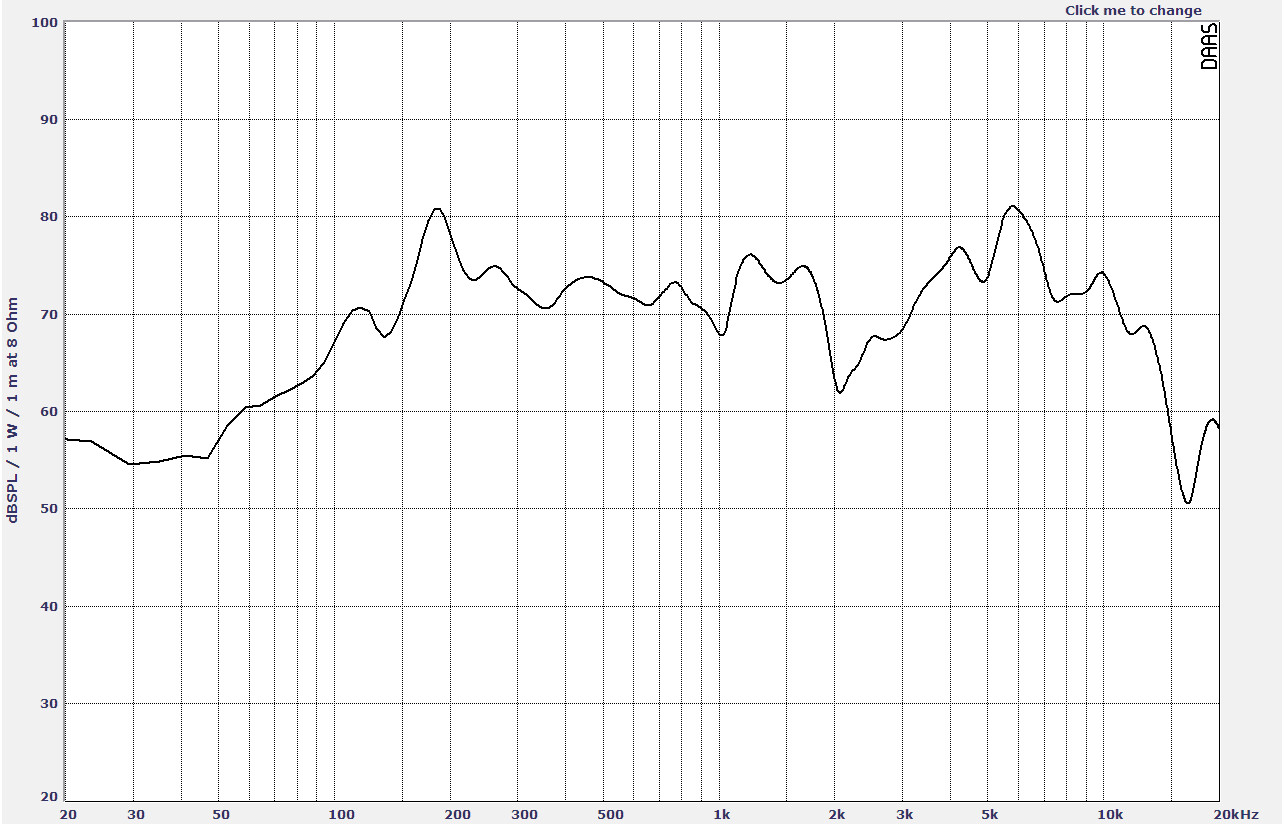
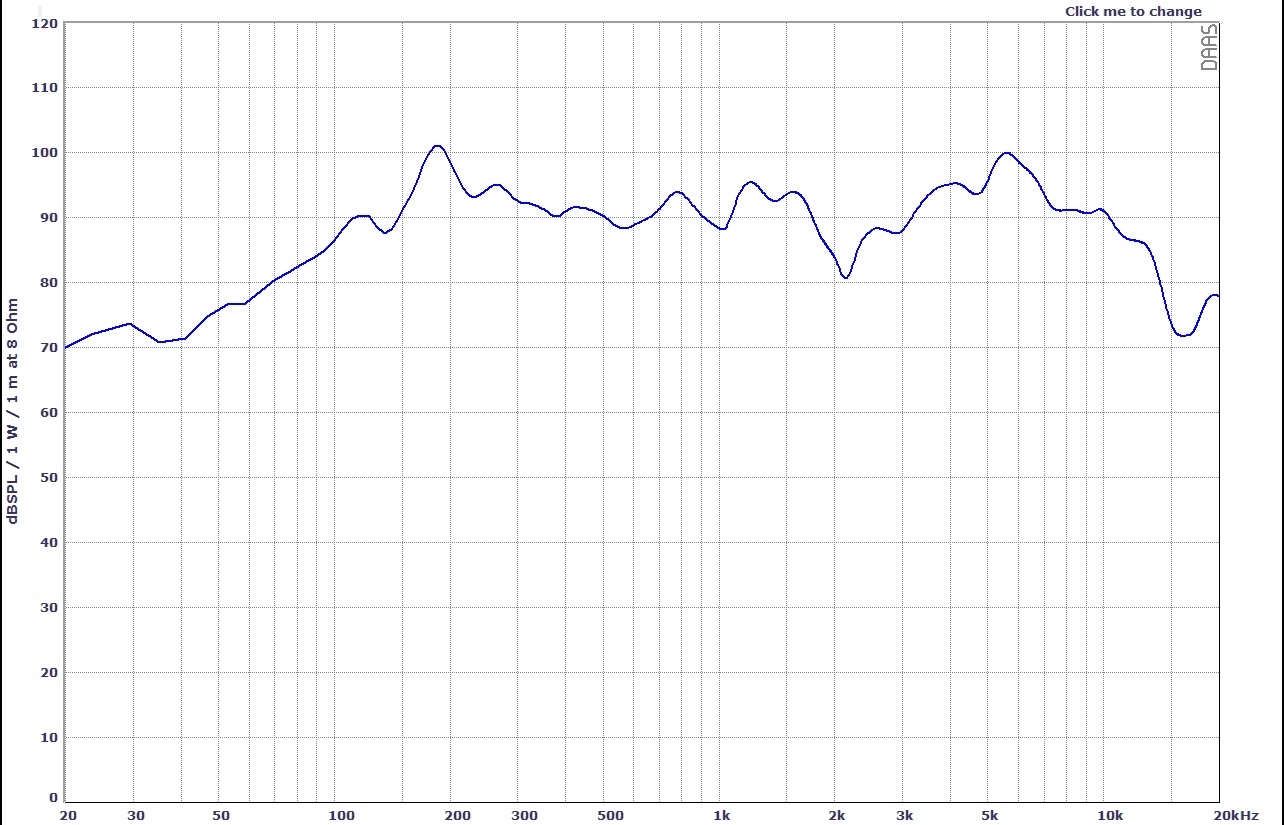
fix notes and power

diff --git a/_products/SPT-33SP.md b/_products/SPT-33SP.md
@@ -2,7 +2,7 @@
 layout: product
 breadcrumb: true
 header: no
-title: "SPT-33SP 4 Inch Tweeter"
+title: "SPT-33SP 3 Inch Tweeter"
 model: "SPT-33SP"
 sequence: 1
 type: "Tweeter"
@@ -11,20 +11,18 @@ images:
   - p2.png
   - p3.png
 notes:
-  - 2 INCH COPPER VOICE COIL
-  - 93.8 dB/SPL SENSITIVITY
-  - 400 WATT PROGRAM POWER HANDING
-  - FEM OPTIMIZED MOTOR AND SUSPENSIONS
-  - OPTIMIZED COOLING SYSTEM
-  - RESONANCE FREE AND HEAVY DUTY BASKET DESIGN
+  - 0.5 INCH ROUND COPPER VOICE COIL
+  - 93 dB/SPL SENSITIVITY
+  - 20 WATT RMS
+  - 2000 - 15000 Hz FREQUENCY RESPONSE
 # General specifications
 nominal_diameter: "3 inch"
 nominal_impedance: "8 Ω"
 magnet_weight: "3 oz"
 voice_coil_diameter: "0.5 inch"
 power_rating: "20W RMS"
-peak_power: "30W"
-sensitivity: "93 dB"
+peak_power: "40W"
+sensitivity: "93.0 dB"
 frequency_range: "2000~15000 Hz"
 
 coil_material: "Round Copper"

diff --git a/_products/SPC-235.md b/_products/SPC-235.md
@@ -11,20 +11,19 @@ images:
   - p2.png
   - p3.png
 notes:
-  - 2 INCH COPPER VOICE COIL
-  - 93.8 dB/SPL SENSITIVITY
-  - 400 WATT PROGRAM POWER HANDING
-  - FEM OPTIMIZED MOTOR AND SUSPENSIONS
-  - OPTIMIZED COOLING SYSTEM
+  - 1 INCH ROUND COPPER VOICE COIL
+  - 88 dB/SPL SENSITIVITY
+  - 40 WATT RMS
+  - 110 ~ 11000 Hz FREQUENCY RESPONSE
 # General specifications
 nominal_diameter: "5.25 inch"
 nominal_impedance: "8 Ω"
-magnet_weight: "? oz"
+magnet_weight: "10 oz"
 voice_coil_diameter: "1 inch"
-power_rating: "30W RMS"
-peak_power: "50W"
-sensitivity: "73 dB"
-frequency_range: "170~10000 Hz"
+power_rating: "40W RMS"
+peak_power: "60W"
+sensitivity: "88 dB"
+frequency_range: "110~11000 Hz"
 
 coil_material: "Round Copper"
 former_material: "Aluminum"

diff --git a/_products/SPW-1080AF.md b/_products/SPW-1080AF.md
@@ -12,20 +12,18 @@ images:
   - p3.png
   - p4.png
 notes:
-  - 2 INCH COPPER VOICE COIL
-  - 93.8 dB/SPL SENSITIVITY
-  - 400 WATT PROGRAM POWER HANDING
-  - FEM OPTIMIZED MOTOR AND SUSPENSIONS
-  - OPTIMIZED COOLING SYSTEM
-  - RESONANCE FREE AND HEAVY DUTY BASKET DESIGN
+  - 2 INCH ROUND COPPER VOICE COIL
+  - 87 dB/SPL SENSITIVITY
+  - 450 WATT RMS
+  - 30 - 1700 Hz FREQUENCY RESPONSE
   - 铝散热器
 # General specifications
 nominal_diameter: "10 inch"
 nominal_impedance: "8 Ω"
 magnet_weight: "2 x 40 oz"
 voice_coil_diameter: "2 inch"
-power_rating: "500W RMS"
-peak_power: "800W"
+power_rating: "450W RMS"
+peak_power: "900W"
 sensitivity: "87.0 dB"
 frequency_range: "30~1700 Hz"
 

diff --git a/_products/SPW-1250SC1.md b/_products/SPW-1250SC1.md
@@ -11,19 +11,17 @@ images:
   - p2.png
   - p3.png
 notes:
-  - 2 INCH COPPER VOICE COIL
-  - 93.8 dB/SPL SENSITIVITY
-  - 400 WATT PROGRAM POWER HANDING
-  - FEM OPTIMIZED MOTOR AND SUSPENSIONS
-  - OPTIMIZED COOLING SYSTEM
-  - RESONANCE FREE AND HEAVY DUTY BASKET DESIGN
+  - 2.58 INCH ROUND COPPER VOICE COIL
+  - 94.6 dB/SPL SENSITIVITY
+  - 350 WATT RMS
+  - 50 - 3300 Hz FREQUENCY RESPONSE
 # General specifications
 nominal_diameter: "12 inch"
 nominal_impedance: "8 Ω"
 magnet_weight: "50 oz"
 voice_coil_diameter: "2.58 inch"
-power_rating: "250W RMS"
-peak_power: "400W"
+power_rating: "350W RMS"
+peak_power: "700W"
 sensitivity: "94.6 dB"
 frequency_range: "50~3300 Hz"
 

diff --git a/_products/SPM-630SC.md b/_products/SPM-630SC.md
@@ -11,19 +11,17 @@ images:
   - p2.png
   - p3.png
 notes:
-  - 2 INCH COPPER VOICE COIL
-  - 93.8 dB/SPL SENSITIVITY
-  - 400 WATT PROGRAM POWER HANDING
-  - FEM OPTIMIZED MOTOR AND SUSPENSIONS
-  - OPTIMIZED COOLING SYSTEM
-  - RESONANCE FREE AND HEAVY DUTY BASKET DESIGN
+  - 1.5 INCH ROUND COPPER VOICE COIL
+  - 94 dB/SPL SENSITIVITY
+  - 120 WATT RMS
+  - 360 - 5000 Hz FREQUENCY RESPONSE
 # General specifications
 nominal_diameter: "6.5 inch"
 nominal_impedance: "8 Ω"
 magnet_weight: "30 oz"
 voice_coil_diameter: "1.5 inch"
-power_rating: "100W RMS"
-peak_power: "150W"
+power_rating: "120W RMS"
+peak_power: "200W"
 sensitivity: "94.0 dB"
 frequency_range: "360~5000 Hz"
 

diff --git a/_products/SPW-12100AF.md b/_products/SPW-12100AF.md
@@ -12,18 +12,17 @@ images:
   - p3.png
   - p4.png
 notes:
-  - 2 INCH COPPER VOICE COIL
-  - 93.8 dB/SPL SENSITIVITY
-  - 400 WATT PROGRAM POWER HANDING
-  - FEM OPTIMIZED MOTOR AND SUSPENSIONS
-  - OPTIMIZED COOLING SYSTEM
-  - RESONANCE FREE AND HEAVY DUTY BASKET DESIGN
+  - 2.5 INCH ROUND COPPER VOICE COIL
+  - 83.0 dB/SPL SENSITIVITY
+  - 600 WATT RMS
+  - 30 - 1200 Hz FREQUENCY RESPONSE
+  - 铝散热器
 # General specifications
 nominal_diameter: "12 inch"
 nominal_impedance: "8 Ω"
 magnet_weight: "2 x 50 oz"
 voice_coil_diameter: "2.5 inch"
-power_rating: "800W RMS"
+power_rating: "600W RMS"
 peak_power: "1200W"
 sensitivity: "83.0 dB"
 frequency_range: "30~1200 Hz"

diff --git a/_products/SPW-1623PC.md b/_products/SPW-1623PC.md
@@ -11,19 +11,17 @@ images:
   - p2.png
   - p3.png
 notes:
-  - 2 INCH COPPER VOICE COIL
-  - 93.8 dB/SPL SENSITIVITY
-  - 400 WATT PROGRAM POWER HANDING
-  - FEM OPTIMIZED MOTOR AND SUSPENSIONS
-  - OPTIMIZED COOLING SYSTEM
-  - RESONANCE FREE AND HEAVY DUTY BASKET DESIGN
+  - 1 INCH ROUND COPPER VOICE COIL
+  - 94.7 dB/SPL SENSITIVITY
+  - 100 WATT RMS
+  - 100 - 11000 Hz FREQUENCY RESPONSE
 # General specifications
 nominal_diameter: "6x9 inch"
 nominal_impedance: "4 Ω"
 magnet_weight: "6.5 oz"
 voice_coil_diameter: "1 inch"
-power_rating: "80W RMS"
-peak_power: "100W"
+power_rating: "100W RMS"
+peak_power: "150W"
 sensitivity: "94.7 dB"
 frequency_range: "100~11000 Hz"
 

diff --git a/_products/SPW-1050SC.md b/_products/SPW-1050SC.md
@@ -11,19 +11,17 @@ images:
   - p2.png
   - p3.png
 notes:
-  - 2 INCH COPPER VOICE COIL
-  - 93.8 dB/SPL SENSITIVITY
-  - 400 WATT PROGRAM POWER HANDING
-  - FEM OPTIMIZED MOTOR AND SUSPENSIONS
-  - OPTIMIZED COOLING SYSTEM
-  - RESONANCE FREE AND HEAVY DUTY BASKET DESIGN
+  - 1.5 INCH ROUND COPPER VOICE COIL
+  - 90.8 dB/SPL SENSITIVITY
+  - 250 WATT RMS
+  - 55 - 3200 Hz FREQUENCY RESPONSE
 # General specifications
 nominal_diameter: "10 inch"
 nominal_impedance: "8 Ω"
 magnet_weight: "50 oz"
 voice_coil_diameter: "1.5 inch"
-power_rating: "200W RMS"
-peak_power: "250W"
+power_rating: "250W RMS"
+peak_power: "400W"
 sensitivity: "90.8 dB"
 frequency_range: "55~3200 Hz"
 

diff --git a/_products/SPW-1230SC.md b/_products/SPW-1230SC.md
@@ -11,19 +11,17 @@ images:
   - p2.png
   - p3.png
 notes:
-  - 2 INCH COPPER VOICE COIL
-  - 93.8 dB/SPL SENSITIVITY
-  - 400 WATT PROGRAM POWER HANDING
-  - FEM OPTIMIZED MOTOR AND SUSPENSIONS
-  - OPTIMIZED COOLING SYSTEM
-  - RESONANCE FREE AND HEAVY DUTY BASKET DESIGN
+  - 1.5 INCH ROUND COPPER VOICE COIL
+  - 90.4 dB/SPL SENSITIVITY
+  - 250 WATT RMS
+  - 35 - 6800 Hz FREQUENCY RESPONSE
 # General specifications
 nominal_diameter: "12 inch"
 nominal_impedance: "8 Ω"
 magnet_weight: "30 oz"
 voice_coil_diameter: "1.5 inch"
-power_rating: "150W RMS"
-peak_power: "180W"
+power_rating: "250W RMS"
+peak_power: "500W"
 sensitivity: "90.4 dB"
 frequency_range: "35~6800 Hz"
 

diff --git a/_products/SPW-18125AC.md b/_products/SPW-18125AC.md
@@ -11,19 +11,17 @@ images:
   - p2.png
   - p3.png
 notes:
-  - 2 INCH COPPER VOICE COIL
-  - 93.8 dB/SPL SENSITIVITY
-  - 400 WATT PROGRAM POWER HANDING
-  - FEM OPTIMIZED MOTOR AND SUSPENSIONS
-  - OPTIMIZED COOLING SYSTEM
-  - RESONANCE FREE AND HEAVY DUTY BASKET DESIGN
+  - 4 INCH ROUND COPPER VOICE COIL
+  - 93.5 dB/SPL SENSITIVITY
+  - 700 WATT RMS
+  - 46 ~ 2000 Hz FREQUENCY RESPONSE
 # General specifications
 nominal_diameter: "18 inch"
 nominal_impedance: "8 Ω"
 magnet_weight: "125 oz"
 voice_coil_diameter: "4 inch"
-power_rating: "800W RMS"
-peak_power: "1200W"
+power_rating: "700W RMS"
+peak_power: "1300W"
 sensitivity: "93.5 dB"
 frequency_range: "46~2000 Hz"
 

diff --git a/_products/SPM-830SC.md b/_products/SPM-830SC.md
@@ -11,19 +11,17 @@ images:
   - p2.png
   - p3.png
 notes:
-  - 2 INCH COPPER VOICE COIL
-  - 93.8 dB/SPL SENSITIVITY
-  - 400 WATT PROGRAM POWER HANDING
-  - FEM OPTIMIZED MOTOR AND SUSPENSIONS
-  - OPTIMIZED COOLING SYSTEM
-  - RESONANCE FREE AND HEAVY DUTY BASKET DESIGN
+  - 1.5 INCH ROUND COPPER VOICE COIL
+  - 92 dB/SPL SENSITIVITY
+  - 150 WATT RMS
+  - 300 - 5300 Hz FREQUENCY RESPONSE
 # General specifications
 nominal_diameter: "8 inch"
 nominal_impedance: "8 Ω"
 magnet_weight: "30 oz"
 voice_coil_diameter: "1.5 inch"
-power_rating: "120W RMS"
-peak_power: "200W"
+power_rating: "150W RMS"
+peak_power: "250W"
 sensitivity: "92 dB"
 frequency_range: "300~5300 Hz"
 

diff --git a/_products/SPW-32SF.md b/_products/SPW-32SF.md
@@ -11,19 +11,17 @@ images:
   - p2.png
   - p3.png
 notes:
-  - 2 INCH COPPER VOICE COIL
-  - 93.8 dB/SPL SENSITIVITY
-  - 400 WATT PROGRAM POWER HANDING
-  - FEM OPTIMIZED MOTOR AND SUSPENSIONS
-  - OPTIMIZED COOLING SYSTEM
-  - RESONANCE FREE AND HEAVY DUTY BASKET DESIGN
+  - 0.58 INCH ROUND COPPER VOICE COIL
+  - 80 dB/SPL SENSITIVITY
+  - 20 WATT RMS
+  - 800 - 15000 Hz FREQUENCY RESPONSE
 # General specifications
 nominal_diameter: "3 inch"
 nominal_impedance: "8 Ω"
 magnet_weight: "2 oz"
 voice_coil_diameter: "0.58 inch"
-power_rating: "10W RMS"
-peak_power: "15W"
+power_rating: "20W RMS"
+peak_power: "40W"
 sensitivity: "80.0 dB"
 frequency_range: "800~15000 Hz"
 
